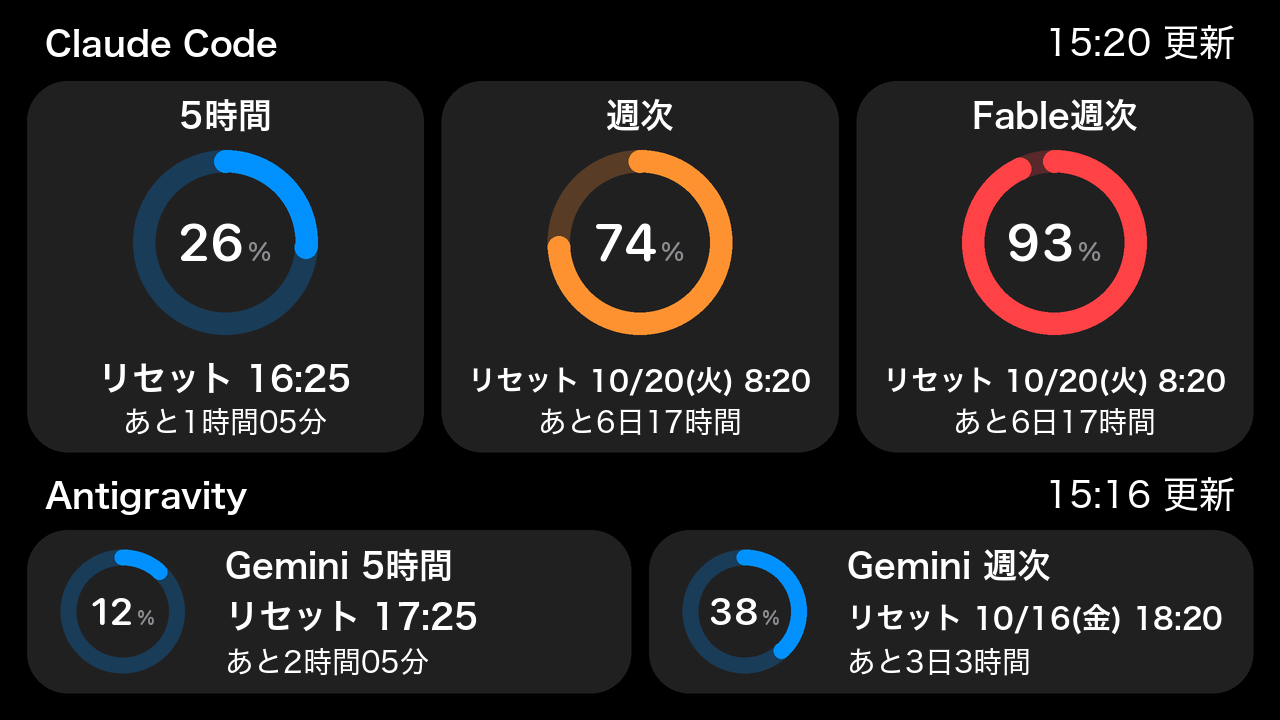
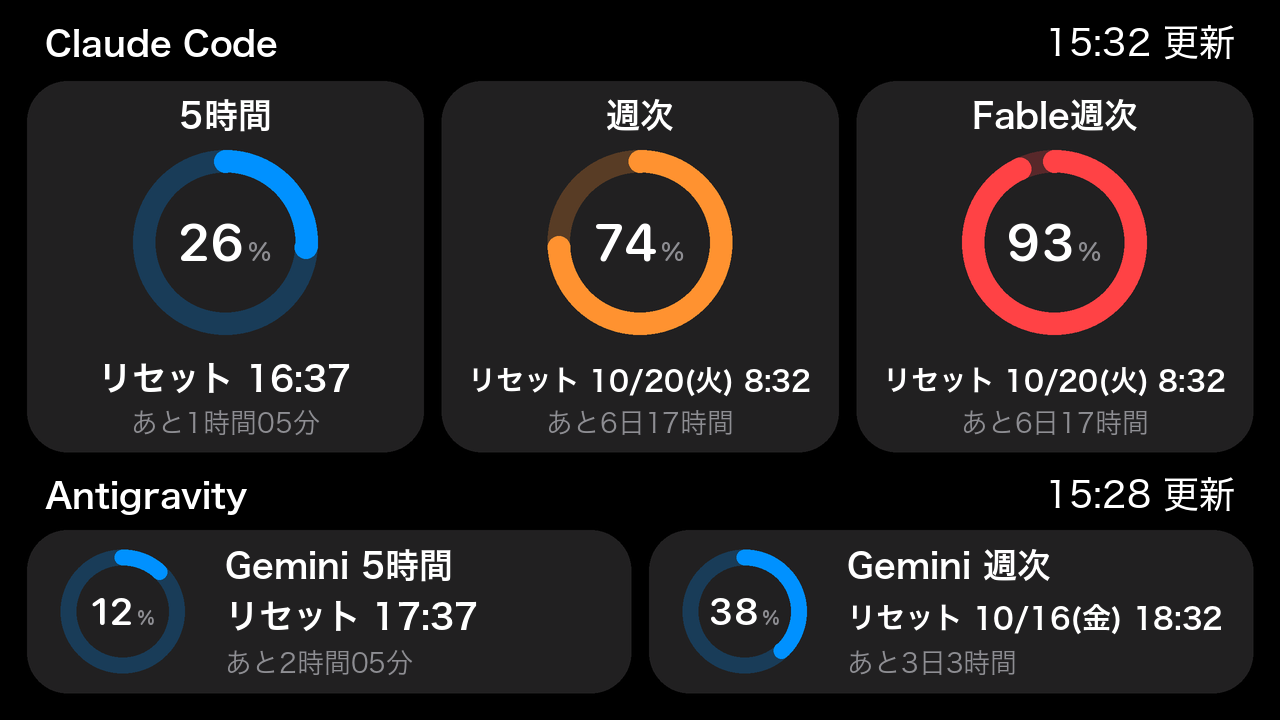
fix: 5.2 インチの「あと…」を「リセット」の見出しと同じ灰色の小さい字にする
ユーザーが見本の 2 案（灰色の見出しと同じ・白く太い時刻と同じ）から選んだ。1280×720 のときだけで、
3.5 インチの大きさの画面は 1 ピクセルも変わらない（白の W4 のまま）。

diff --git a/claude_usage_display/gauge.py b/claude_usage_display/gauge.py
@@ -91,6 +91,7 @@ class Layout:
     height: int = HEIGHT
     content: float = 1.0
     stamp: int = FOOTNOTE
+    quiet_remain: bool = False  # 残り時間を「リセット」の見出しと同じ灰色の小さい字にする
 
     @property
     def k(self) -> float:
@@ -124,11 +125,21 @@ class Layout:
 # - content: 5.2 インチは余白が大きかったので、3.5 インチのサーバー監視の画面と同じように、カードの中身を大きくした
 #   （2026-10-13 ユーザーの指示）
 # - stamp: 3.5 インチのサーバー監視の画面（縦置き）の名前 15・時刻 16 と同じ比にする（2026-10-13 ユーザーの指示）
-LARGE = {(1280, 720): {"content": 1.2, "stamp": 16}}
+# - quiet_remain: 「あと…」を「リセット」の見出しと同じ書き方にする（2026-10-13、ユーザーが見本の 2 案から選んだ）。
+#   3.5 インチでは「薄くて見えない」として白にした（2026-10-09）うえ、12 ピクセルの W3 は「4」の横棒が消えるので変えない
+LARGE = {(1280, 720): {"content": 1.2, "stamp": 16, "quiet_remain": True}}
 
 
 def layout_for(size: tuple[int, int]) -> Layout:
     return Layout(*size, **LARGE.get(tuple(size), {}))
+
+
+def _remain_style(layout: Layout, scaled: bool = True) -> tuple[int, int, tuple[int, int, int]]:
+    """残り時間（「あと…」）の字の大きさ（ピクセル）・太さ・色。``scaled`` はカードの中身の倍率を掛けるか。"""
+    size = (layout.cpt if scaled else layout.pt)(CAPTION1 if layout.quiet_remain else FOOTNOTE)
+    if layout.quiet_remain:  # 「リセット」の見出しと同じ（13 ピクセル以下になるときだけ W4）
+        return size, 3 if size > 13 else SMALL_WEIGHT, SECONDARY
+    return size, SMALL_WEIGHT, LABEL
 
 
 @lru_cache(maxsize=None)
@@ -177,7 +188,8 @@ def content_rows(layout: Layout = Layout()) -> tuple[float, float, float, float,
     """
     cpx = layout.cpx
     ascent = -font(layout.cpt(SUBHEAD), 6).getbbox("時", anchor="ls")[1]
-    descent = font(layout.cpt(FOOTNOTE), SMALL_WEIGHT).getbbox("あと", anchor="ls")[3]
+    remain_size, remain_weight, _color = _remain_style(layout)
+    descent = font(remain_size, remain_weight).getbbox("あと", anchor="ls")[3]
     label = ascent
     ring_center = label + cpx(16) + cpx(RING_RADIUS)
     caption = ring_center + cpx(RING_RADIUS) + cpx(28)
@@ -337,8 +349,9 @@ def render(snapshot: Snapshot | None, now: datetime, status: str | None = None,
         when, remain = reset_lines(meter.resets_at, now)
         draw.text((cx, origin + caption_y), "リセット", font=font(cpt(CAPTION1), 3), fill=SECONDARY, anchor="ms")
         draw.text((cx, origin + when_y), when, font=fit_font(when, inner, cpt(SUBHEAD), 6), fill=LABEL, anchor="ms")
-        draw.text((cx, origin + remain_y), remain, font=fit_font(remain, inner, cpt(FOOTNOTE), SMALL_WEIGHT),
-                  fill=LABEL, anchor="ms")
+        remain_size, remain_weight, remain_color = _remain_style(layout)
+        draw.text((cx, origin + remain_y), remain, font=fit_font(remain, inner, remain_size, remain_weight),
+                  fill=remain_color, anchor="ms")
     return image
 
 
@@ -346,7 +359,8 @@ def _upper_rows(layout: Layout) -> tuple[float, float, float, float, float]:
     """上の段のカードの中身の各行の位置（中身の上端から測る）と、中身の高さ。"""
     px = layout.px
     ascent = -font(layout.pt(SUBHEAD), 6).getbbox("時", anchor="ls")[1]
-    descent = font(layout.pt(FOOTNOTE), SMALL_WEIGHT).getbbox("あと", anchor="ls")[3]
+    remain_size, remain_weight, _color = _remain_style(layout, scaled=False)
+    descent = font(remain_size, remain_weight).getbbox("あと", anchor="ls")[3]
     label = ascent
     ring_center = label + px(10) + px(UPPER_RING_RADIUS)
     when = ring_center + px(UPPER_RING_RADIUS) + px(25)
@@ -407,6 +421,7 @@ def render_with_gemini(snapshot: Snapshot | None, gemini: Snapshot | None, now: 
             layout.stamp)
 
     inner = layout.card_width - px(CARD_PADDING) * 2
+    remain_size, remain_weight, remain_color = _remain_style(layout, scaled=False)
     for (cx, origin), meter in zip(upper, meters):
         draw.text((cx, origin + label_y), meter.label, font=fit_font(meter.label, inner, pt(SUBHEAD), 6),
                   fill=LABEL, anchor="ms")
@@ -415,8 +430,8 @@ def render_with_gemini(snapshot: Snapshot | None, gemini: Snapshot | None, now: 
         when, remain = reset_lines(meter.resets_at, now)
         text = _reset_text(when)
         draw.text((cx, origin + when_y), text, font=fit_font(text, inner, pt(SUBHEAD), 6), fill=LABEL, anchor="ms")
-        draw.text((cx, origin + remain_y), remain, font=fit_font(remain, inner, pt(FOOTNOTE), SMALL_WEIGHT),
-                  fill=LABEL, anchor="ms")
+        draw.text((cx, origin + remain_y), remain, font=fit_font(remain, inner, remain_size, remain_weight),
+                  fill=remain_color, anchor="ms")
     for (left, cx, cy), meter in zip(lower, gemini_meters):
         percent = None if meter.percent is None else max(0.0, meter.percent)
         _value(draw, cx, cy + px(LOWER_NUMBER * 0.36), percent, layout, LOWER_NUMBER, 9)
@@ -428,6 +443,6 @@ def render_with_gemini(snapshot: Snapshot | None, gemini: Snapshot | None, now: 
                   fill=LABEL, anchor="ls")
         draw.text((text_left, cy + px(8)), text, font=fit_font(text, width, pt(SUBHEAD), 6), fill=LABEL,
                   anchor="ls")
-        draw.text((text_left, cy + px(27.5)), remain, font=fit_font(remain, width, pt(FOOTNOTE), SMALL_WEIGHT),
-                  fill=LABEL, anchor="ls")
+        draw.text((text_left, cy + px(27.5)), remain, font=fit_font(remain, width, remain_size, remain_weight),
+                  fill=remain_color, anchor="ls")
     return image

diff --git a/tests/test_gauge.py b/tests/test_gauge.py
@@ -126,6 +126,19 @@ class LargeGaugeTest(unittest.TestCase):
         self.assertGreaterEqual((bottom - top - content_height) / 2, 20)  # 上下に余白が残る
         self.assertLess(2 * self.LAYOUT.cpx(gauge.RING_RADIUS), self.LAYOUT.card_width - 2 * self.LAYOUT.px(gauge.CARD_PADDING))
 
+    def test_remaining_time_is_written_like_the_reset_caption(self):
+        # 5.2 インチは「あと…」を「リセット」の見出しと同じ灰色・大きさ・太さにする（2026-10-13）。3.5 インチは白の W4 のまま
+        self.assertEqual(gauge._remain_style(self.LAYOUT), (self.LAYOUT.cpt(gauge.CAPTION1), 3, gauge.SECONDARY))
+        self.assertEqual(gauge._remain_style(gauge.layout_for((480, 320))), (13, gauge.SMALL_WEIGHT, gauge.LABEL))
+        image = gauge.render(snapshot(26, 74, 93), NOW, size=self.SIZE)
+        _label, _ring, _caption, _when, remain_y, content_height = gauge.content_rows(self.LAYOUT)
+        left, top, right, bottom = gauge.card_box(0, self.LAYOUT)
+        baseline = round(top + (bottom - top - content_height) / 2 + remain_y)
+        band = [image.getpixel((x, y)) for x in range(round(left) + 20, round(right) - 20)
+                for y in range(baseline - 25, baseline + 4)]
+        self.assertTrue(any(near(p, gauge.SECONDARY, 20) for p in band), "灰色の字が無い")
+        self.assertFalse(any(min(p) > 200 for p in band), "白い字が残っている")
+
     def test_card_content_is_vertically_centered(self):
         image = gauge.render(snapshot(26, 74, 93), NOW, size=self.SIZE)
         inset = math.ceil(self.LAYOUT.px(gauge.CARD_RADIUS))

diff --git a/docs/handover.md b/docs/handover.md
@@ -249,6 +249,7 @@ scripts/uninstall-launch-agent.sh                                 # 自動起動
   - **見出しと明るさを 3.5 インチに合わせた**（2026-10-13、ユーザーの指示「Claude Code・Antigravity の表記と更新時刻は、3.5 インチの表記と文字・明るさを合わせて」）。3.5 インチのサーバー監視の画面（縦置き）は名前 15・時刻 16 ピクセルで、どちらも白。5.2 インチの見出しの時刻を、同じ比になるよう 29→36 ピクセルにした（`gauge.GEMINI_STAMP`。名前は 34 ピクセルのまま。`render_with_gemini` だけで、Gemini を出さない画面は変えていない）。文字の色はもともと同じ白なので、「明るさ」は画面の明るさとして、5.2 インチの自動起動も 3.5 インチと同じ `--brightness 25` にした。**パネルが違うので、同じ 25% で同じ明るさに見えるかは、5.2 インチが届いてから実機で見比べる**（5.2 インチの明るさの命令は 0〜102 の値、3.5 インチは 255 − 明るさ × 255 ÷ 100）。このときの登録は `scripts/install-launch-agent.sh --device 5.2 --gemini --brightness 25`（同日 15:25 に `--gemini` を外した。次の項目）
   - **5.2 インチに Antigravity の枠を出すのはやめた**（2026-10-13 15:25、ユーザーが決定。自動起動の登録から `--gemini` を外し、`scripts/install-launch-agent.sh --device 5.2 --brightness 25` にした。機能とテストは、横棒の画面と同じく戻せるように残す）。理由: Antigravity は rikkama-column の画像生成にしか使っておらず、これまでにかかった上限は画像生成の上限だけ。**`/usage` に画像生成の枠は無い**（グループは「Gemini Models」「Claude and GPT models」の 2 つで、枠は 5 時間と週の 4 つだけ）。rikkama-column の `.agents/AGENTS.md` によると、画像生成の上限は週次で、毎週水曜 16:26:17 JST に補充され、目安は 45〜60 回、超えると 429。2026-10-11 1:54 に `/usage` を読んだとき Gemini の週の枠は 6% だったが、同じ時刻に rikkama-column のセッションは「今週は 41 回、1:53 の実行で 46 回前後になり週の上限の下限に届く」と記録していた。画像生成が上限に近くても `/usage` の Gemini の枠はほとんど動かないので、画面に出しても役に立たない。加えて、15 分ごとの `agy` の起動（約 6 秒）と `implicit/` のファイルの増加が無くなる
   - **5.2 インチの 3 枚の画面のカードの中身を大きくした**（2026-10-13、ユーザーの指示「3.5 インチはサークルなどの表示を大きくした。5 インチでも余白が大きいので同じように表示する情報を大きく」）。`gauge.LARGE`（`layout_for`）で、1280×720 のときだけカードの中身（リング・数字・文字・行の間）を 1.2 倍にした。リングの直径は 225→270 ピクセル。1.3 倍も試したが、中身の高さ 606 に対してカードの高さが 612 で、上下の余白が 3 ピクセルしか残らず、文字がカードの縁に付いた。1.2 倍では上下に 27 ピクセルずつ残る。3.5 インチの大きさ（480×320）の画面は 1 ピクセルも変わっていない（変更前と描き比べた）。見本は `docs/images/gauge-1280x720.png`
+  - **「あと…」を「リセット」の見出しと同じ書き方にした**（2026-10-13、ユーザーの指示「あと x 分の表記はリセットと同じように」）。「リセット」には灰色の小さい見出しと白く太い時刻の 2 つがあるので、見本の 2 案を見せ、ユーザーが灰色の見出しのほう（Gray 142・Caption 1・W3）を選んだ。1280×720 のときだけ（`gauge.LARGE` の `quiet_remain`）。3.5 インチの大きさは、2026-10-09 に「薄くて見えない」として白にした経緯があり、12 ピクセルの W3 は「4」の横棒が消えるので、白の W4 のまま（1 ピクセルも変わっていない）。使っていない 2 段の画面も同じ書き方にした
   - **見出しの時刻の大きさを 3 枚の画面にも入れた**（2026-10-13）。3.5 インチに合わせた時刻の大きさ（16 pt 相当、36 ピクセル）を 2 段の画面だけに入れていたため、Antigravity の表示をやめたときに 29 ピクセルに戻っていた。`gauge.LARGE` の `stamp` に移し、1280×720 では 3 枚の画面も 2 段の画面も 36 ピクセルにした
   - **使っていない枠のリセット時刻は出さない**（2026-10-13）。15:19 に `/usage` を読むと、使用 0% の枠の `reset_time` は「取得した時刻＋枠の長さ」だった（5 時間の枠は 20:19、Claude・GPT の週の枠はちょうど 7 日後）。取得のたびに先へずれるので、`remaining_fraction` が 1 の枠はリセット時刻を無し（画面は「--」）にした
   - 内部 API を自分で呼ばず、`agy` の `/usage` を読む。版が 1.1.11 より古ければ呼ばない。応答に `num_turns` が 1 以上か `conversation_id` があれば、起動し直すまで取得をやめる（Orca と同じ止め方）
